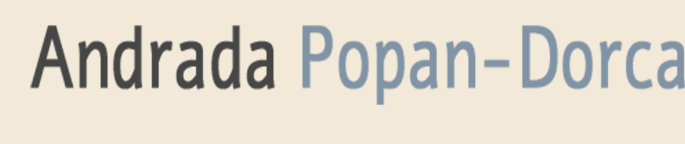
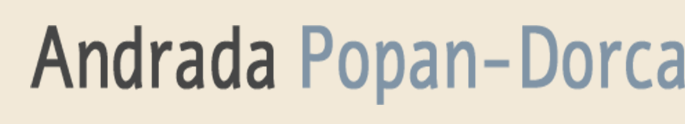
Fix sign-out button on index

diff --git a/app/assets/stylesheets/custom.css.scss b/app/assets/stylesheets/custom.css.scss
@@ -72,7 +72,7 @@ body
   {
     background: url("Andrada_Popan_Dorca_titlebar.png");
     width: 685px;
-    height: 144px;
+    height: 118px;
   }
 
   //navbar stuff

diff --git a/app/assets/stylesheets/about_me_contents.css.scss b/app/assets/stylesheets/about_me_contents.css.scss
@@ -239,5 +239,5 @@
 .spacer
 {
   height: 50px;
-  margin: 454px 0 0 0;
+  margin: 481px 0 0 0;
 }
